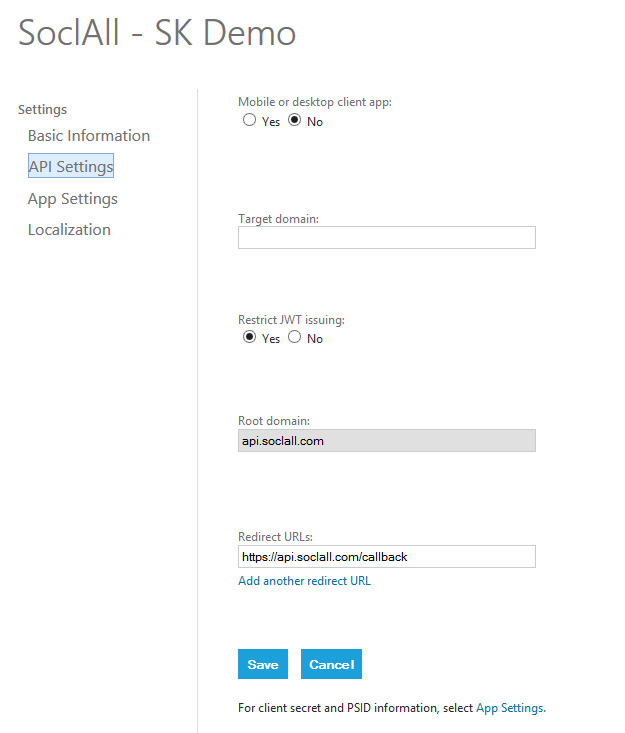
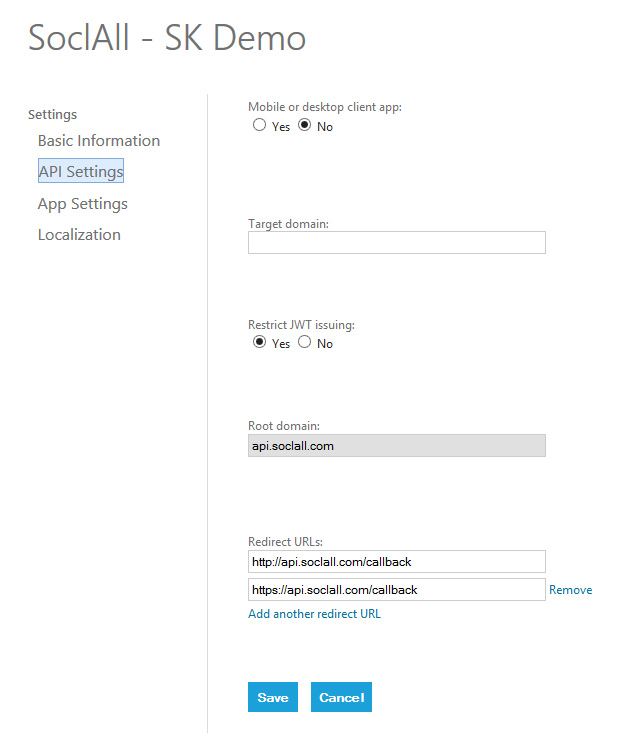
Task #58 - update url callback of live, disqu, foursquare, github, lastfm, wordpress

diff --git a/docs/user-guide/disqus.md b/docs/user-guide/disqus.md
@@ -1,13 +1,13 @@
 __To register an application on Disqus, please follow all steps below:__
 
-1. Login to [Disqus](http://disqus.com/) and go to [Disqus Developer](https://disqus.com/api/applications/register/) Page to create application
+1. Login to [Disqus](https://disqus.com/) and go to [Disqus Developer](https://disqus.com/api/applications/register/) Page to create application
 2. Fill all information and press button "Register my application".
     <div class="soclall-br"></div>
     ![Disqus : Create Form](/img/disqus-1-create-form.png)
     <div class="soclall-br"></div>
 3. Go to Settings tab and fill below information
     * Domain: __soclall.com__
-    * Callback URL: __http://api.soclall.com/callback__
+    * Callback URL: __https://api.soclall.com/callback__
     
     <div class="soclall-br"></div>
     ![Disqus : Settings](/img/disqus-2-settings.png)

diff --git a/docs/user-guide/live.md b/docs/user-guide/live.md
@@ -3,7 +3,8 @@ __To register an application on Live, please follow the steps below:__
 1. Login to [Microsoft account](https://account.live.com/) and go to Page [Microsoft Developer](https://account.live.com/developers/applications) to create application
 2. Press button "Create application", then fill the application name and accept the TOS
 3. Go to Api Settings and fill all below information
-    * Redirect URLs: __https://api.soclall.com/callback__
+    * Redirect URLs: __http://api.soclall.com/callback__
+    * Then, press "Add another redirect URL" and re-fill: __https://api.soclall.com/callback__
     
     <div class="soclall-br"></div>
     ![Live : Api Settings Form](/img/live-1-api-settings-form.JPG)

diff --git a/docs/user-guide/wordpress.md b/docs/user-guide/wordpress.md
@@ -2,7 +2,7 @@ __To register an application on Wordpress, please follow the steps below:__
 
 1. Login to [Wordpress](https://developer.wordpress.com/apps/) and go to Page [Wordpress App](https://developer.wordpress.com/apps/new/) to create application
 2. Press button "Create New Application" and then fill the application form with the below information
-    * Redirect URL: __http://api.soclall.com/callback__
+    * Redirect URL: __https://api.soclall.com/callback__
 3. Then press button "Create"
     <div class="soclall-br"></div>
     ![Wordpress : Create Form](/img/wordpress-1-create-form.png)

diff --git a/docs/user-guide/foursquare.md b/docs/user-guide/foursquare.md
@@ -2,7 +2,7 @@ __To register an application on Foursquare, please follow the steps below:__
 
 1. Login to [Foursquare](https://developer.foursquare.com/) and go to Page [Foursquare App](https://foursquare.com/developers/register) to create application
 2. Press button "Create A New App" and then fill the application form with the below information
-    * Redirect URI(s): __http://api.soclall.com/callback__
+    * Redirect URI(s): __https://api.soclall.com/callback__
     
     <div class="soclall-br"></div>
     ![Foursquare : Create Form](/img/foursquare-1-create-form.png)

diff --git a/docs/user-guide/github.md b/docs/user-guide/github.md
@@ -2,7 +2,7 @@ __To register an application on GitHub, please follow the steps below:__
 
 1. Login to [GitHub](https://github.com/) and go to Page [GitHub App](https://github.com/settings/applications) to create application
 2. Press button "Register new application" and then fill the application form with the below information
-    * Authorization callback URL: __http://api.soclall.com/callback__
+    * Authorization callback URL: __https://api.soclall.com/callback__
     
     <div class="soclall-br"></div>
     ![GitHub : Create Form](/img/github-1-create-form.png)

diff --git a/docs/user-guide/lastfm.md b/docs/user-guide/lastfm.md
@@ -6,7 +6,7 @@ __To register an application on Last.fm, please follow the steps below:__
     ![Last.fm : Create Form](/img/lastfm-1-create-form.jpg)
     <div class="soclall-br"></div>
 3. After successfully registered the application, go to Authentication session, fill the callback url and save
-    * Callback URL: __http://api.soclall.com/callback__
+    * Callback URL: __https://api.soclall.com/callback__
     
     <div class="soclall-br"></div>
     ![Last.fm : Update Callback](/img/lastfm-2-update-callback.JPG)
